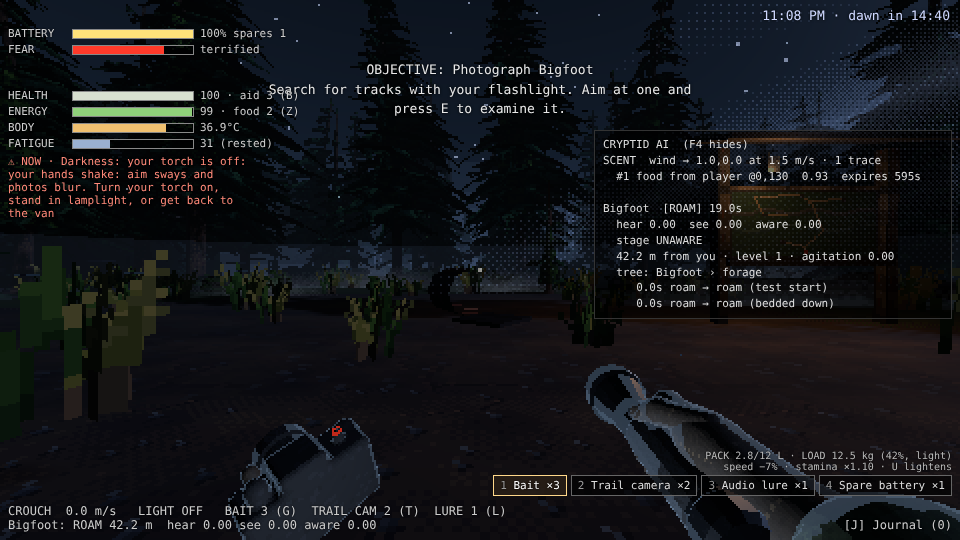
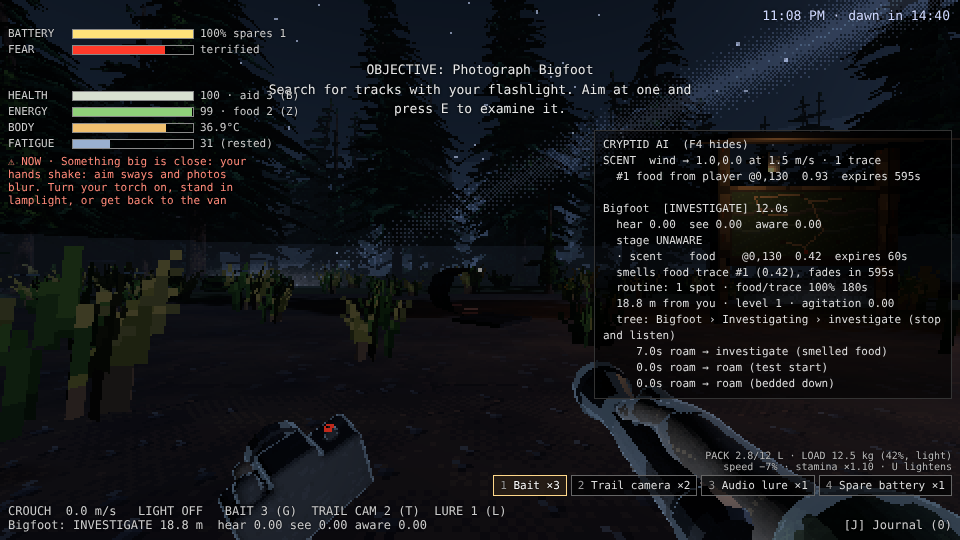
#107 report; check: bleed while moving
Claude-Session: https://claude.ai/code/session_0163yRzHGRraga61EFxbLany

diff --git a/.ballast/reports/t107.md b/.ballast/reports/t107.md
@@ -1,0 +1,8 @@
+STATUS: DONE
+- Bigfoot can now smell. Opening food and bleeding from a wound leave real scent traces where they happen; carcasses use the same system, though Pine Hollow has none yet. Traces fade with age, and the night breeze (west to east) carries each one downwind. A creature downwind can smell a fresh trace from tens of metres away; upwind of it, only from right on top of it.
+- He only follows traces that exist in the world. Food you're carrying in your pack gives nothing away until you open it. When a trace reaches him, he goes to where it lies, checks each trace once, then gives up and moves on.
+- He now has a routine memory: places where he actually watched you, and places he found traces you left. His confidence builds with repeated sightings but never past certain, fades over a few minutes, and the memory then expires. Every so often he goes back to check a spot he's sure about. A route you took while he never saw you can't be anticipated.
+- Debug overlay (F4): every stimulus he holds (sound, sight, light, scent), with its source, where it is, its strength and seconds until it expires, plus the wind and every live scent trace.
+- Checked in game: crouched in the dark with food in your pack, he smells nothing. Eat with him 24 m downwind of you and he walks straight to the spot where you ate. Eat with him upwind of you and the wind carries it away, so he never notices. Bleeding while walking leaves a fading blood trail. He anticipates a spot where he watched you but not a route he never saw. Unit tests pass.
+- Assumptions: there's no weather wind yet, so Pine Hollow uses a steady 1.5 m/s breeze. Scent draws him to investigate but doesn't, on its own, make him aware of you.
+PR: PR_LINK
